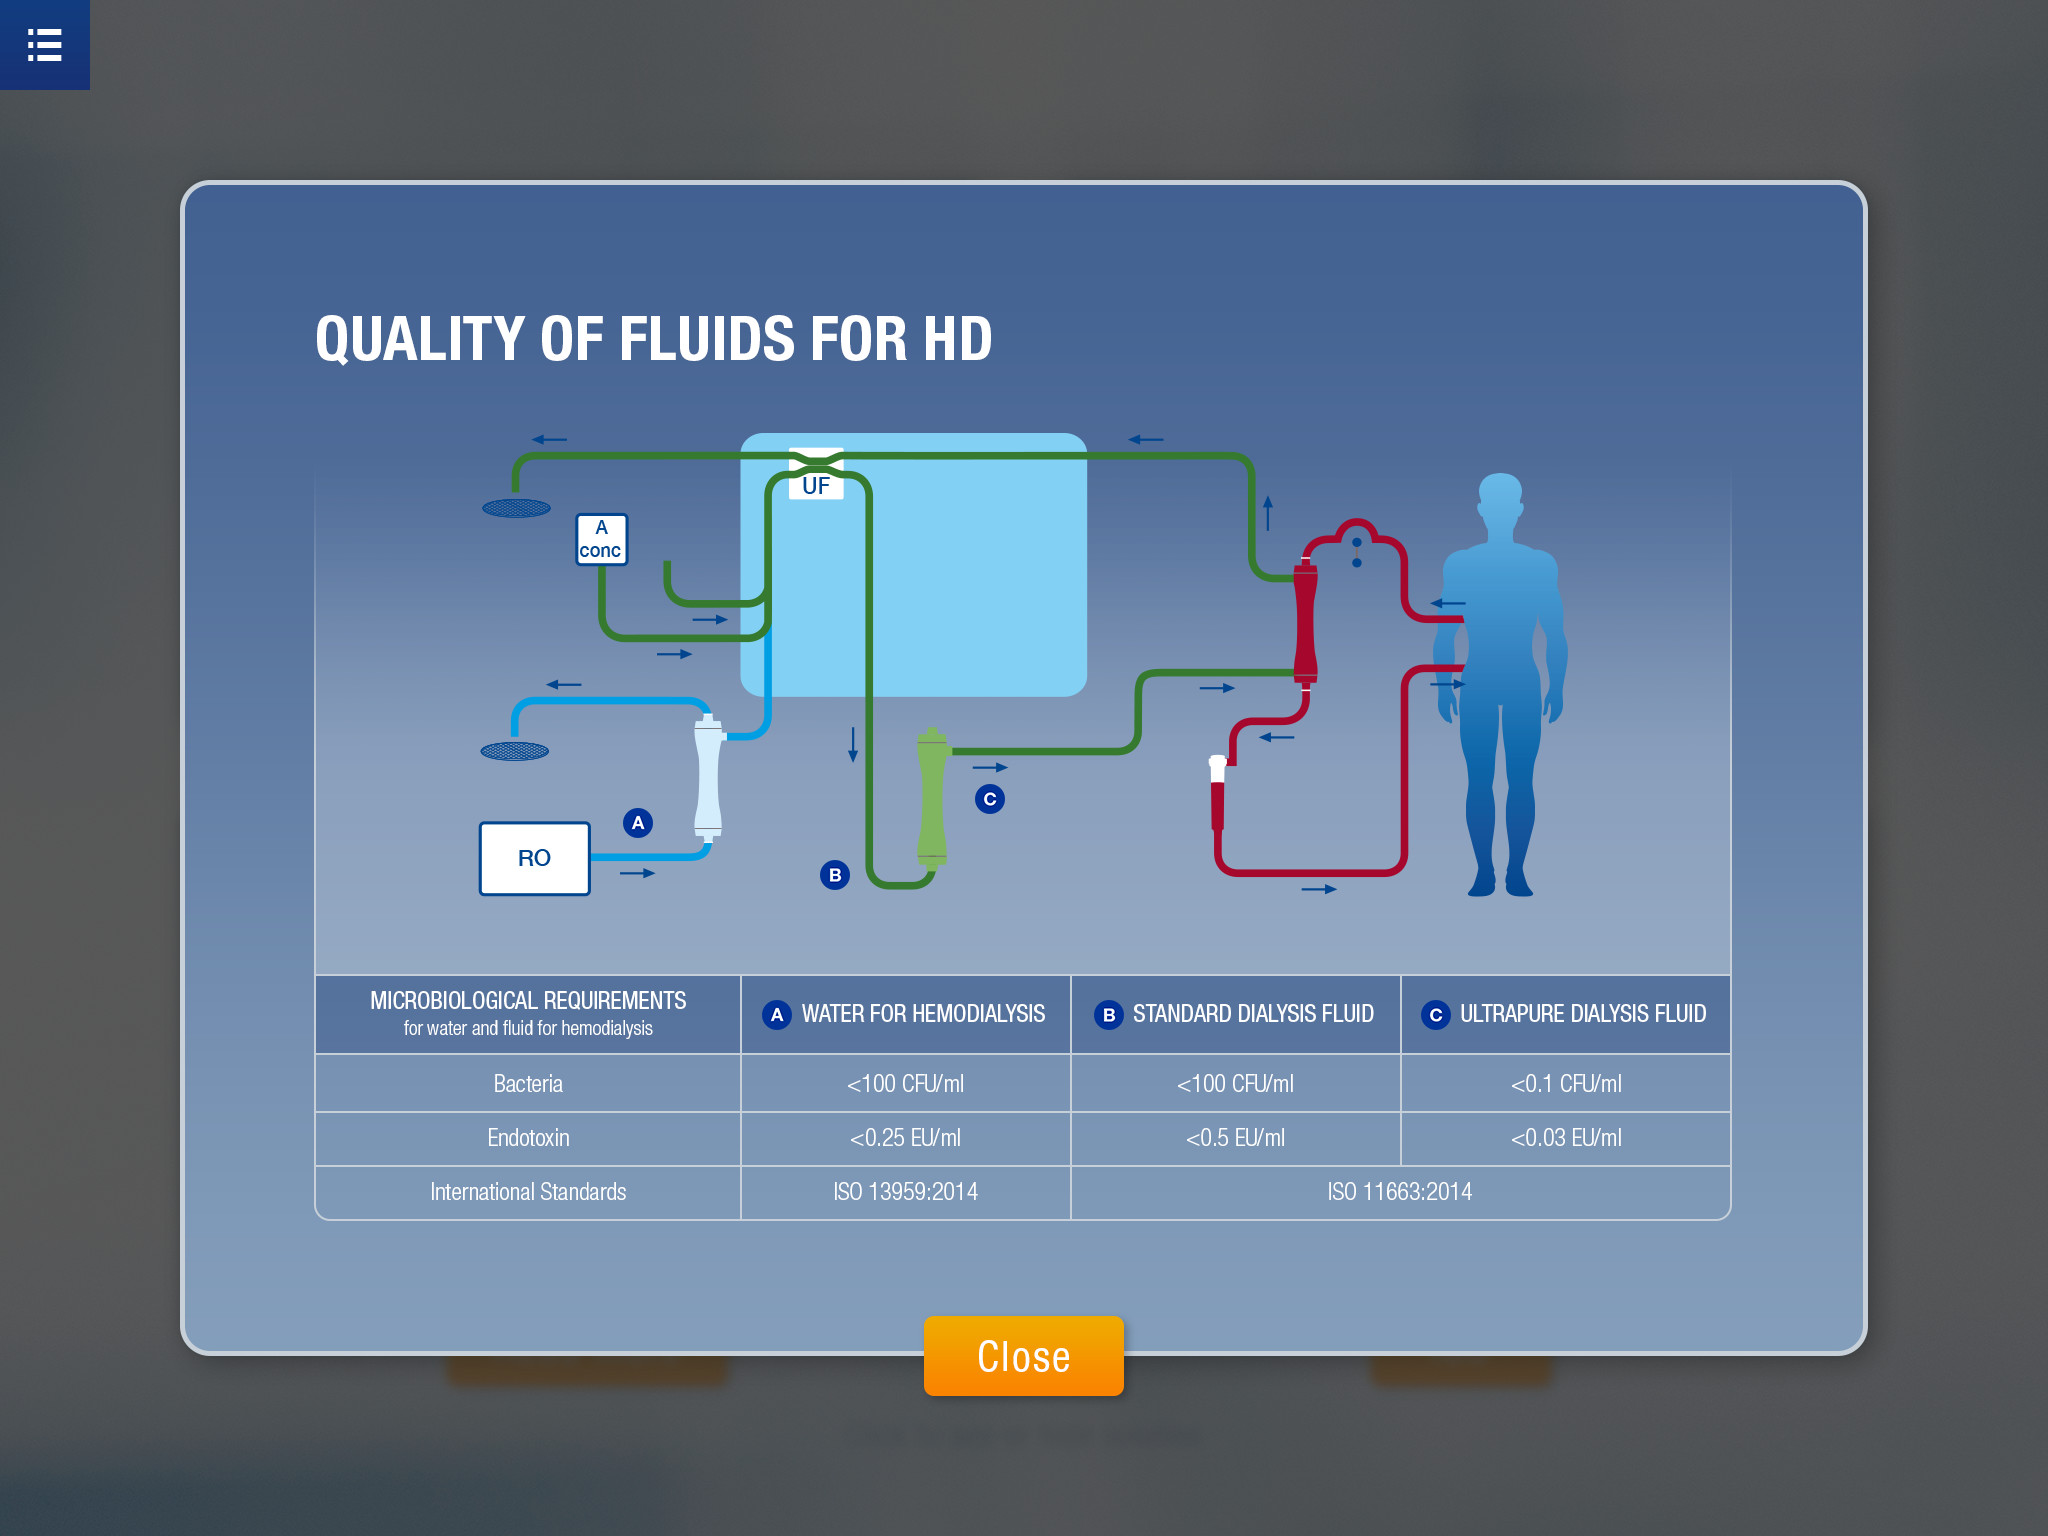
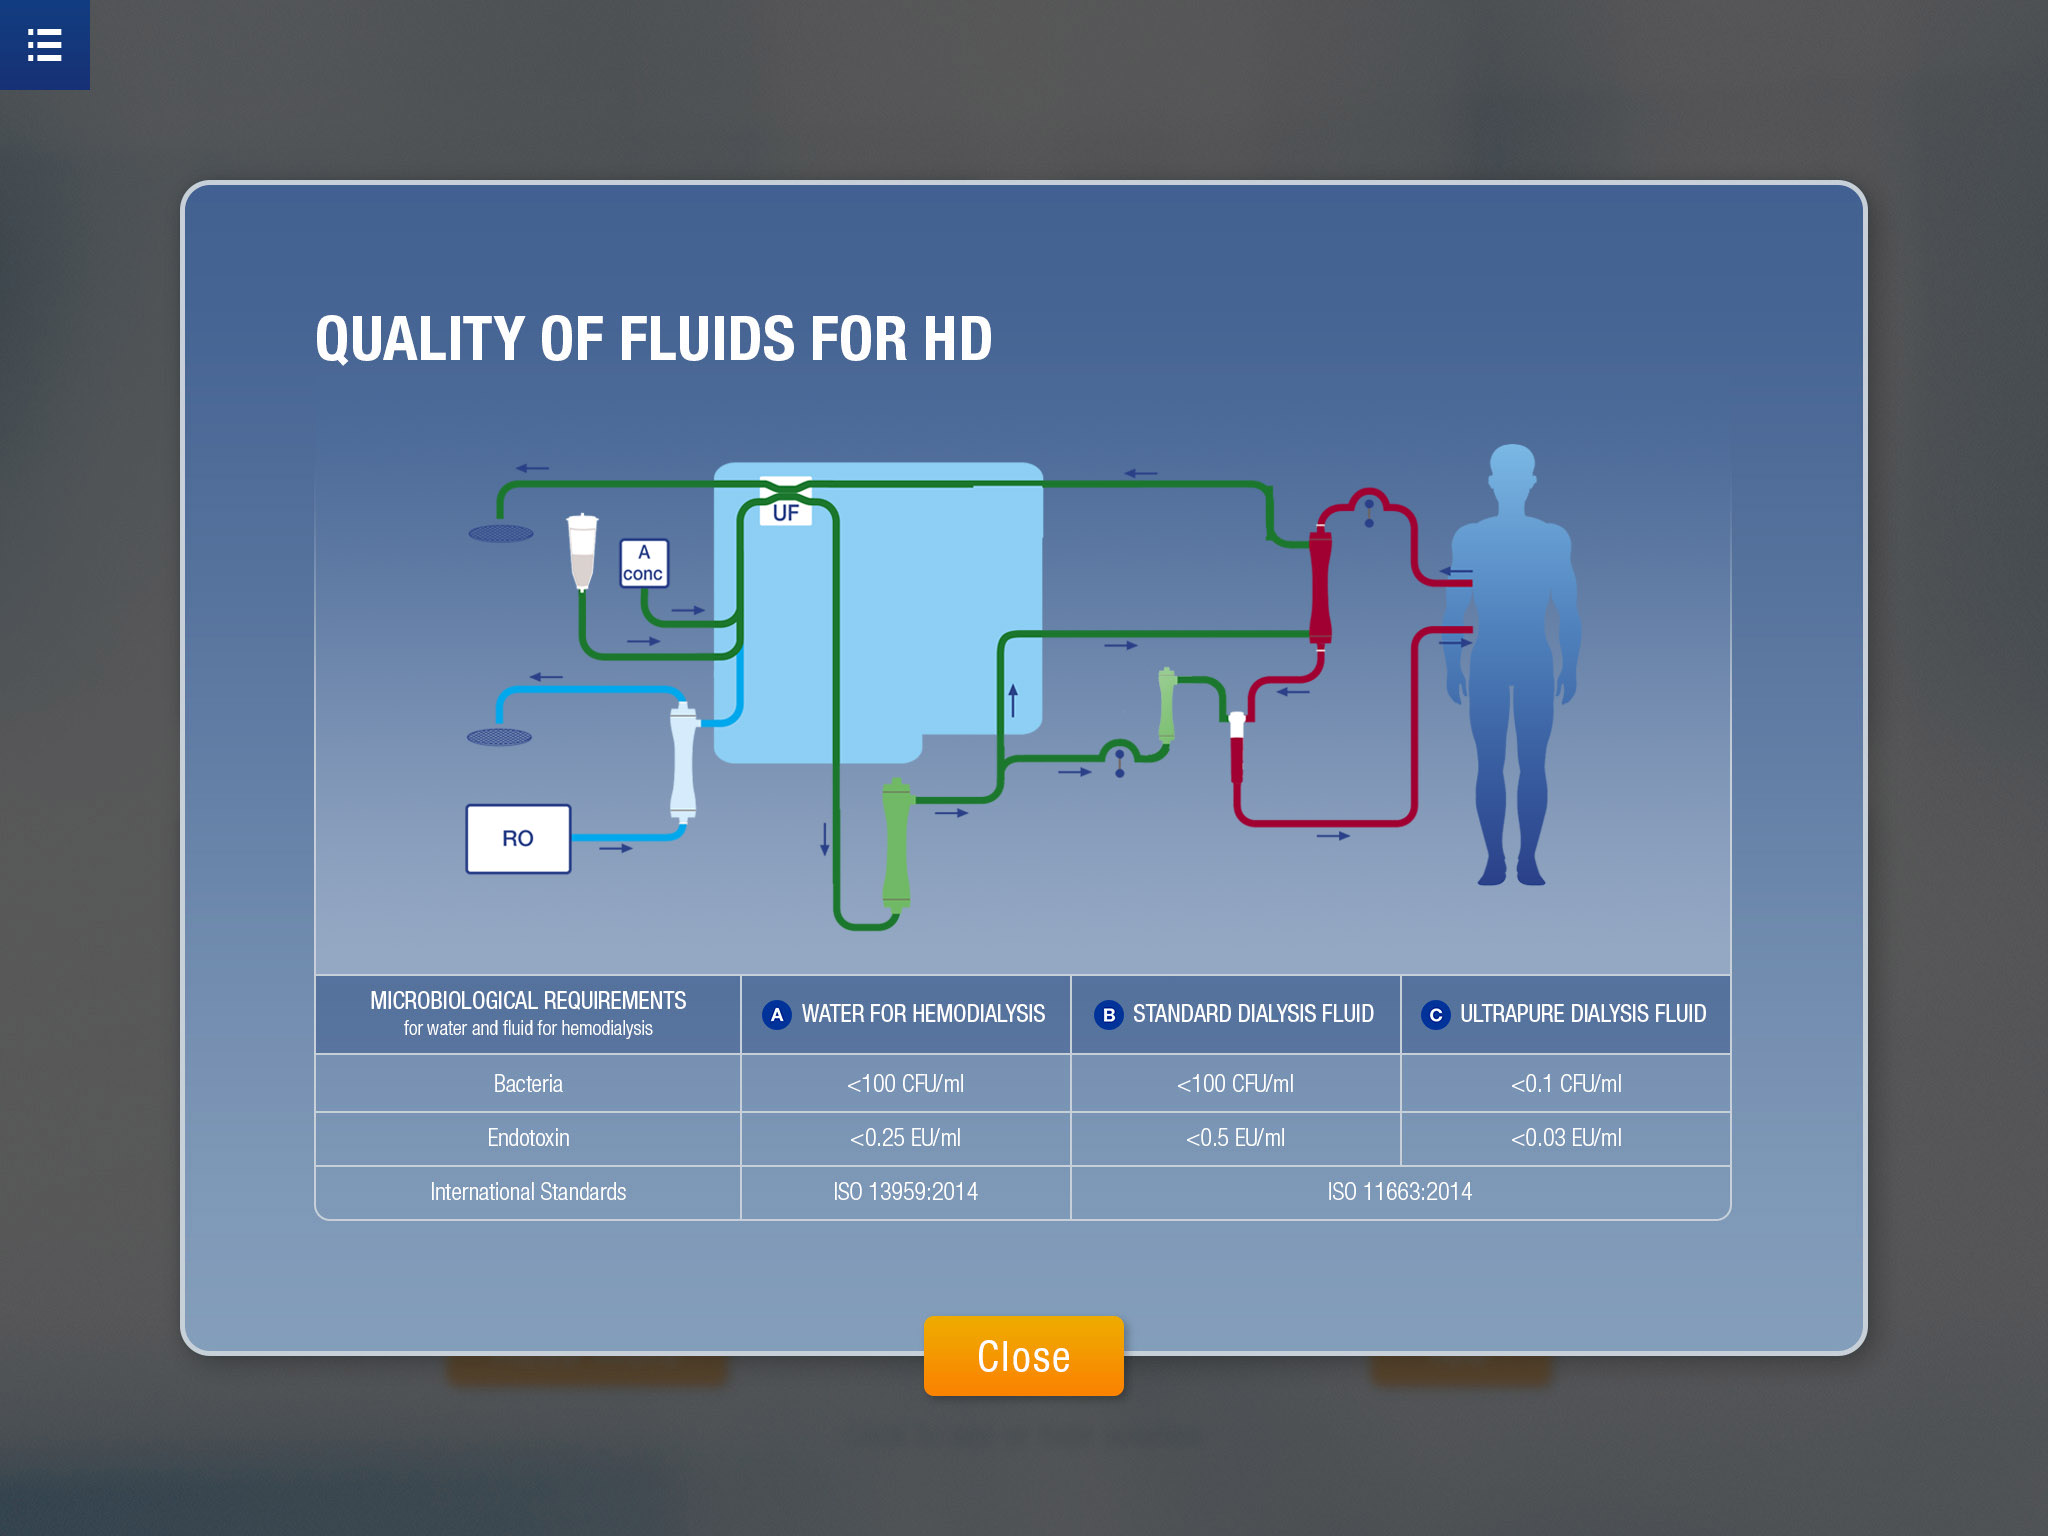
-Changed "May" to "November" on the bottom of brand story. -Edited the Clinic Challenges image.

Changed region(s): [[0.2188, 0.2812, 0.7812, 0.625]]

diff --git a/src/html/templates/partials/contents/slide-brand-story.html b/src/html/templates/partials/contents/slide-brand-story.html
@@ -8,7 +8,7 @@
       <p>By combining monitors, features, consumables, services, and systems, into integrated treatment options, we aim to help healthcare professionals with improving quality-of-life, and outcomes, for their patients, all while controlling their operational efficiency. Our six treatment options consider everything from a patient’s clinical needs to the governmental and economic factors at work in a particular region. This wide range of treatment options enables our customers to find solutions for their needs, no matter where in the world they are.<br><br>This is how we are <b>Making Possible Personal.</b></p>
     </div>
     <div class="foot foot--intro">
-      <p>EUMP/MG3/16-0001 May 2016</p>
+      <p>EUMP/MG3/16-0001 November 2016</p>
     </div>
   </div>
 </div>
